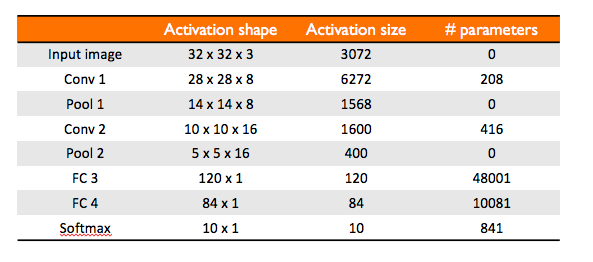
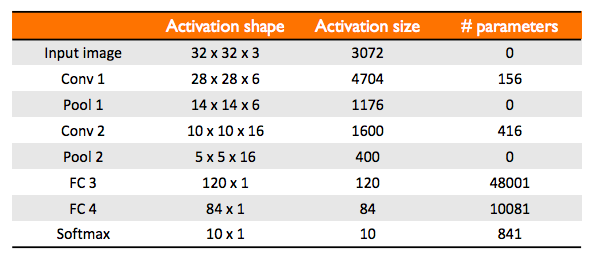
minor change to LeNet-5

diff --git a/blogs/alexnet.html b/blogs/alexnet.html
@@ -67,12 +67,14 @@
                     by Alex Krizhevsky, Ilya Sutskever, and Geoffrey Hinton (2012)
                     </br>
                     </br>
-                    AlexNet refers to an eight-layer convolutional neural network (CNN) that was the winner of the 
+                    AlexNet refers to an eight-layer convolutional neural network (ConvNet) that was the winner of the 
                     <a href=http://www.image-net.org/challenges/LSVRC/>ILSVRC</a>
                     (ImageNet Large Scale Visual Recognition Competition), the Blackpool for image classification, in 2012,
-                    consisting of 5 convolutional layers, 3 fully connected layers, and a final 1000-way softmax with 60 million
-                    parameters. The scale of this network was considered very impressive at the time, and was in part possible
-                    thanks to the highly optimized implementation of 2D convolution on GPUs. The network took 5-6 days to be trained on 
+                    consisting of 5 convolutional layers, 3 fully connected layers with a final 1000-way softmax,
+                    amounting to a total of 60 million parameters.
+                    The scale of this network was considered very impressive at the time, and was in part possible
+                    thanks to the highly optimized implementation of 2D convolution on GPUs. 
+                    The network took 5-6 days to be trained on 
                     2 GTX 580 3GB GPUs, and the authors believed that improvement is possible with simply faster GPUs and bigger
                     datasets. At the time, the model was parallelized such that the GPUs communicate only in certain layers, which
                     consequently lowered their error rates by 1–2%.
@@ -102,16 +104,34 @@
                     As mentioned previously, data augmentation was used to artificially enlarge the size
                     of the data set. One form of data augmentation used in the model was done by extracting
                     random \(224\times 224\times 3\) patches from the \(256\times 256\) images. 
-                    These patches then go through 
-                    </p>
+                    These patches then go through 5 convolutional layers and 3 fully connected layers.
+                    There might have been a mistake here in the paper and the patch's dimensions are 
+                    supposed to be \(227\times 227\times 3\).
                     <ul align="justify">
-                        <li>The first convolutional layer: 96 kernels (or filters)
-                        of size \(11\times 11\times 3\) and a stride of 4 pixels, followed by a max pooling layer.</li>
-                        <li>The second convolutional layer: 256 kernels of size 
-                        \(5\times 5\times 48\), followed again by a max pooling layer.</li>
-                        <li>The third convolutional layer: 384 kernels of size \(3\times 3\times 256\)</li>
-                        <li>The fourth convolutional layer: 384 kernels of size \(3\times 3\times 192\)</li>
-                        <li>The fourth convolutional layer: 256 kernels of size \(3\times 3\times 192\)</li>
+                        <li><p>1st convolutional layer: 96 kernels
+                        of size \(11\times 11\times 3\) and a stride of 4 pixels, followed by
+                        a max pooling layer of size \(3\times 3\) and a stride of 2.
+                        Dimensions of the output are \(55\times 55\times 96\) after Conv 1,
+                        and \(27\times 27\times 96\) after Pool 1.
+                        </li></p>
+                        <li>2nd convolutional layer: 256 kernels of size 
+                        \(5\times 5\times 48\) and a stride of 1, followed by a max pooling layer
+                        of size \(3\times 3\) and a stride of 2.
+                        Dimensions of the output are \(51\times 51\times 256\) after Conv 2, and
+                        \(11\times 11\times 256\) after Pool 2.
+                        </li></p>
+                        <li>3rd convolutional layer: 384 kernels of size \(3\times 3\times 256\), and 
+                        a stride of 1, no pooling.
+                        Dimensions of the output are \(9\times 9\times 384\) after Conv 3.
+                        </li></p>
+                        <li>4th convolutional layer: 384 kernels of size \(3\times 3\times 192\),
+                        and a stride of 1, no pooling.
+                        Dimensions of the output are \(7\times 7\times 384\) after Conv 4.
+                        </li></p>
+                        <li>5th convolutional layer: 256 kernels of size \(3\times 3\times 192\),
+                        and a stride of 1, again no pooling.
+                        Dimensions of the output are \(5\times 5\times 256\) after Conv 5.
+                        </li></p>
                     </ul>
                     <p align="justify">
                     The fully connected layers have 4096 neurons each.

diff --git a/blogs/cnn.html b/blogs/cnn.html
@@ -235,6 +235,13 @@
                     </br>
                     <center><img src="lenet-5-parameters.png" width="80%" class="center"></img></center> 
                     </br>
+                    <p align="justify">
+                    The original LeNet-5 was on grey scale images, so the dimensions of the original
+                    input image is \(32\times 32\times 1\).
+                    In addition, \(tanh\) and \(sigmoid\) activation functions were preferred to ReLU
+                    at the time the paper was published.
+                    </p>
+                    </br>
                     <h4>Why ConvNet?</h4>
                     2 main advantages of using a ConvNet in computer vision applications are
                     <ul>
